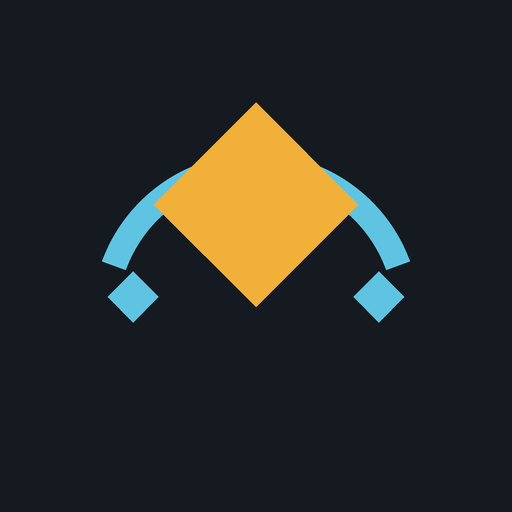
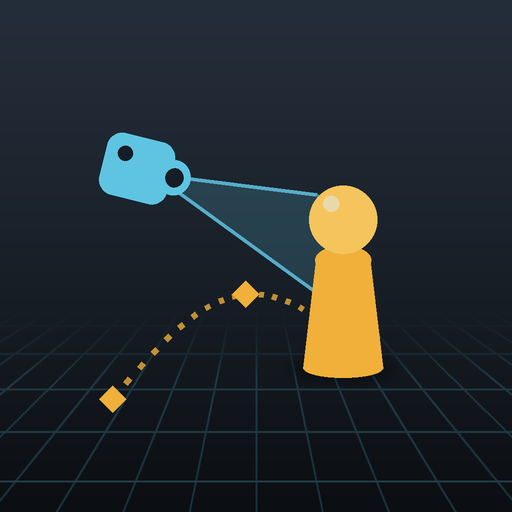
アイコン刷新、シーンの長さを数値入力に、コマのつかみ判定を改善
- 選択中のコマだけドラッグで動く（他のコマに触れたときは視点操作、タップで選択）
- 選択中のコマは画面上で指一本ぶんの範囲でつかめる
- シーンの長さを0.1秒単位で直接入力（最大120秒）

Claude-Session: https://claude.ai/code/session_01UjnR6JmfMcnBCZMLsrKBsT

diff --git a/index.html b/index.html
@@ -432,7 +432,7 @@ function normalize(s){
   if(cam.target&&!pieces.some(p=>p.id===cam.target)) cam.target=null;
   const ss=s.scene&&typeof s.scene==='object'?s.scene:{}, hex=v=>/^#[0-9a-f]{6}$/i.test(v);
   const scn={bg:hex(ss.bg)?ss.bg:d.scene.bg,ground:hex(ss.ground)?ss.ground:d.scene.ground,grid:['off','1','5','10'].includes(String(ss.grid))?String(ss.grid):d.scene.grid,gridShot:ss.gridShot!==false};
-  return {duration:clamp(Math.round(num(s.duration,8)),2,60),pieces,cam,scene:scn};
+  return {duration:clamp(Math.round(num(s.duration,8)*10)/10,1,120),pieces,cam,scene:scn};
 }
 let state=null, fromSample=false;
 try{const raw=localStorage.getItem(SKEY); if(raw) state=normalize(JSON.parse(raw));}catch(e){state=null;}
@@ -979,7 +979,7 @@ function loop(now){
 /* ---------- picking & dragging ---------- */
 const ray=new THREE.Raycaster(), ndc=new THREE.Vector2(), gplane=new THREE.Plane(new THREE.Vector3(0,1,0),0);
 function setRay(e){const r=canvas.getBoundingClientRect();ndc.set((e.clientX-r.left)/r.width*2-1,-((e.clientY-r.top)/r.height)*2+1);ray.setFromCamera(ndc,viewCam());}
-function pick(e){
+function pick(e,raw){
   setRay(e); const hits=ray.intersectObjects([...groups.values()],true);
   let glass=null; /* pieces inside a transparent block win over the block */
   for(const h of hits){let o=h.object;while(o&&!o.userData.pid)o=o.parent;if(!o)continue;
@@ -1004,19 +1004,24 @@ stage.addEventListener('pointerdown',e=>{
     return;
   }
   if(!canDrag()||ptrs.size>1||(e.button&&e.button!==0)) return;
-  let pid=pick(e);
-  if(!pid){ /* a touch near the selected piece's ring also grabs it */
-    const sp=selPiece(), g=groundAt(e);
-    if(sp&&g){const s=pose(sp,time);if(Math.hypot(g.x-s.x,g.z-s.z)<Math.max(.8,TYPES[sp.type].foot*Math.max(sp.size.x,sp.size.z)*1.3))pid=sp.id;}
-  }
-  if(!pid) return;
+  /* only the selected piece can be dragged; touching anything else moves the view (a tap selects) */
+  const sp=selPiece(); if(!sp||!grabsSelected(e,sp)) return;
+  const pid=sp.id;
   e.stopPropagation(); e.preventDefault();
   if(playing) setPlaying(false);
-  if(selId!==pid) select(pid);
   const p0=selPiece(), p=(p0.ride&&state.pieces.find(q=>q.id===p0.ride))||p0, s=pose(p,time), g=groundAt(e);
   drag={id:e.pointerId,pid:p.id,ox:g?s.x-g.x:0,oz:g?s.z-g.z:0,sx:e.clientX,sy:e.clientY,pendingTrace:traceMode};
   try{stage.setPointerCapture(e.pointerId);}catch(_){}
 },true);
+const _sv=new THREE.Vector3();
+function screenDist(e,x,y,z){const r=canvas.getBoundingClientRect();_sv.set(x,y,z).project(viewCam());if(_sv.z>1)return 1e9;return Math.hypot((_sv.x+1)/2*r.width+r.left-e.clientX,(1-_sv.y)/2*r.height+r.top-e.clientY);}
+function grabsSelected(e,sp){
+  const hp=pick(e,true); if(hp===sp.id) return true;
+  const s=pose(sp,time), h=(sp.type==='camrig'?0:PROXY[sp.type][1]*sp.size.y);
+  const reach=sp.type==='camrig'?56:46; /* finger-sized radius on screen */
+  if(Math.min(screenDist(e,s.x,s.y,s.z),screenDist(e,s.x,s.y+h/2,s.z),screenDist(e,s.x,s.y+h,s.z))<reach) return true;
+  const g=groundAt(e); return !!(g&&Math.hypot(g.x-s.x,g.z-s.z)<Math.max(.8,TYPES[sp.type].foot*Math.max(sp.size.x,sp.size.z)*1.3));
+}
 /* trace recording: the finger's path is written as keys while time runs */
 function startTrace(p){
   if(time>=state.duration-.5/FPS){toast('時間バーが最後まで進んでいます。戻してから録ってください');return;}
@@ -1081,7 +1086,10 @@ window.addEventListener('pointerup',e=>{
   ptrs.delete(e.pointerId);
   if(look&&e.pointerId===look.id){endLook();down=null;return;}
   if(drag&&e.pointerId===drag.id){endDrag();return;}
-  if(down&&!down.moved&&canDrag()&&ptrs.size===0&&stage.contains(e.target)&&!e.target.closest('#tools,.fab')&&!pick(e)) select(null);
+  if(down&&!down.moved&&canDrag()&&ptrs.size===0&&stage.contains(e.target)&&!e.target.closest('#tools,.fab')){
+    const hit=pick(e);
+    if(hit!==selId){select(hit);if(hit&&!pref.seenGrab){pref.seenGrab=true;savePref();toast('選んだコマは、もう一度触ってドラッグすると動かせます',3000);}}
+  }
   if(!ptrs.size) down=null;
 });
 window.addEventListener('pointercancel',e=>{ptrs.delete(e.pointerId);if(look&&e.pointerId===look.id)endLook();if(drag&&e.pointerId===drag.id)endDrag();if(!ptrs.size)down=null;});
@@ -1225,7 +1233,7 @@ function paneMotion(){
         h+=sec('mall','まとめて操作',`<div class="btnrow"><button data-act="ease-all">${allE?'全部のイーズを外す':'全部のキーにイーズ'}</button><button class="danger" data-act="key-clear">キーを全部消す</button></div><p class="hint small">イージーイーズを付けたキー（丸い印）の前後は、ゆっくり止まってゆっくり動き出します。</p>`,false);}
     }
   }else h+='<p class="hint">動かしたいコマを画面でタップして選んでください。「一覧」タブからも選べます。</p>';
-  h+=`<div class="row2"><div class="stepper"><span class="lbl">シーンの長さ</span><button data-act="dur" data-v="-1" aria-label="1秒短く">−</button><span class="num">${state.duration}秒</span><button data-act="dur" data-v="1" aria-label="1秒長く">＋</button></div>${toggle('loop','ループ再生',pref.loop)}</div>`;
+  h+=`<div class="row2"><div class="stepper"><span class="lbl">シーンの長さ</span><button data-act="dur" data-v="-1" aria-label="1秒短く">−</button><span class="numw"><input type="number" class="numin" id="f-dur" data-f="duration" inputmode="decimal" step="any" min="1" max="120" value="${state.duration}" aria-label="シーンの長さ（秒）"><i>秒</i></span><button data-act="dur" data-v="1" aria-label="1秒長く">＋</button></div>${toggle('loop','ループ再生',pref.loop)}</div>`;
   return h;
 }
 function paneCam(){
@@ -1501,7 +1509,7 @@ function act(a,v,b){
   case 'key-prev': case 'key-next': jumpKey(p?p.keys:[],a==='key-next'); break;
   case 'key-clear': if(p){if(!arm(b,'もう一度で全部消す'))return;p.base=rawPose(p,time);p.keys=[];changed();renderPane();} break;
   case 'key-jump': case 'camkey-jump': if(playing)setPlaying(false); setTime(+v); break;
-  case 'dur': state.duration=clamp(state.duration+(+v),2,60); if(time>state.duration)time=state.duration; changed(); updateTimeUI(); renderPane(); break;
+  case 'dur': state.duration=clamp(Math.round((state.duration+(+v))*10)/10,1,120); if(time>state.duration)time=state.duration; changed(); updateTimeUI(); renderPane(); break;
   case 'mode': if(v==='rig'&&!rigPiece()){ensureRig();toast('撮影カメラをコマとして置きました。編集・真上ビューでドラッグして動かせます',3200);} c.mode=v; manualCam=false; updateCtl(); updateHint(); changed(); renderPane(); break;
   case 'lens': c.lens=+v; changed(); renderPane(); break;
   case 'aspect': c.aspect=v; changed(); renderPane(); break;
@@ -1585,6 +1593,7 @@ panes.addEventListener('input',e=>{
   }
   else if(el.dataset.n){v=parseFloat(v);if(!isFinite(v))return;const r=el.closest('.fld').querySelector('input[type=range]');if(r)r.value=ROT_F[f]?sliderAngle(f,v):v;}
   const p=selPiece();
+  if(f==='duration'){return;} /* applied on change so typing '1' on the way to '12' doesn't cut keys */
   if(f==='name'){if(p){p.name=String(v).slice(0,20);syncLabels();clearTimeout(saveTimer);saveTimer=setTimeout(save,400);}return;}
   if(f==='rot'){if(p)editPose(p,{r:v});return;}
   if(f==='rx'||f==='rz'){if(p)editPose(p,{[f]:v});return;}
@@ -1611,6 +1620,11 @@ panes.addEventListener('input',e=>{
 });
 panes.addEventListener('keydown',e=>{if(e.target.id==='f-name'&&e.key==='Enter')e.target.blur();});
 panes.addEventListener('change',e=>{
+  if(e.target.id==='f-dur'){
+    const v=parseFloat(e.target.value);
+    if(isFinite(v)){state.duration=clamp(Math.round(v*10)/10,1,120);if(time>state.duration)time=state.duration;changed();updateTimeUI();}
+    e.target.value=state.duration; return;
+  }
   if(e.target.id==='f-name'){
     const p=selPiece();
     if(p&&!p.name.trim()){p.name=nextName(p.type);e.target.value=p.name;}

diff --git a/sw.js b/sw.js
@@ -1,5 +1,5 @@
 /* ポケットプリビズ service worker: keeps the app working offline */
-const CACHE='pocket-previz-69da87204a';
+const CACHE='pocket-previz-2771a9a903';
 const SHELL=['./','index.html','manifest.webmanifest','vendor/three.min.js','vendor/OrbitControls.js','icons/icon-192.png','icons/icon-512.png','icons/apple-touch-icon.png'];
 self.addEventListener('install',e=>{e.waitUntil(caches.open(CACHE).then(c=>c.addAll(SHELL)).then(()=>self.skipWaiting()));});
 self.addEventListener('activate',e=>{e.waitUntil(caches.keys().then(ks=>Promise.all(ks.filter(k=>k!==CACHE).map(k=>caches.delete(k)))).then(()=>self.clients.claim()));});
